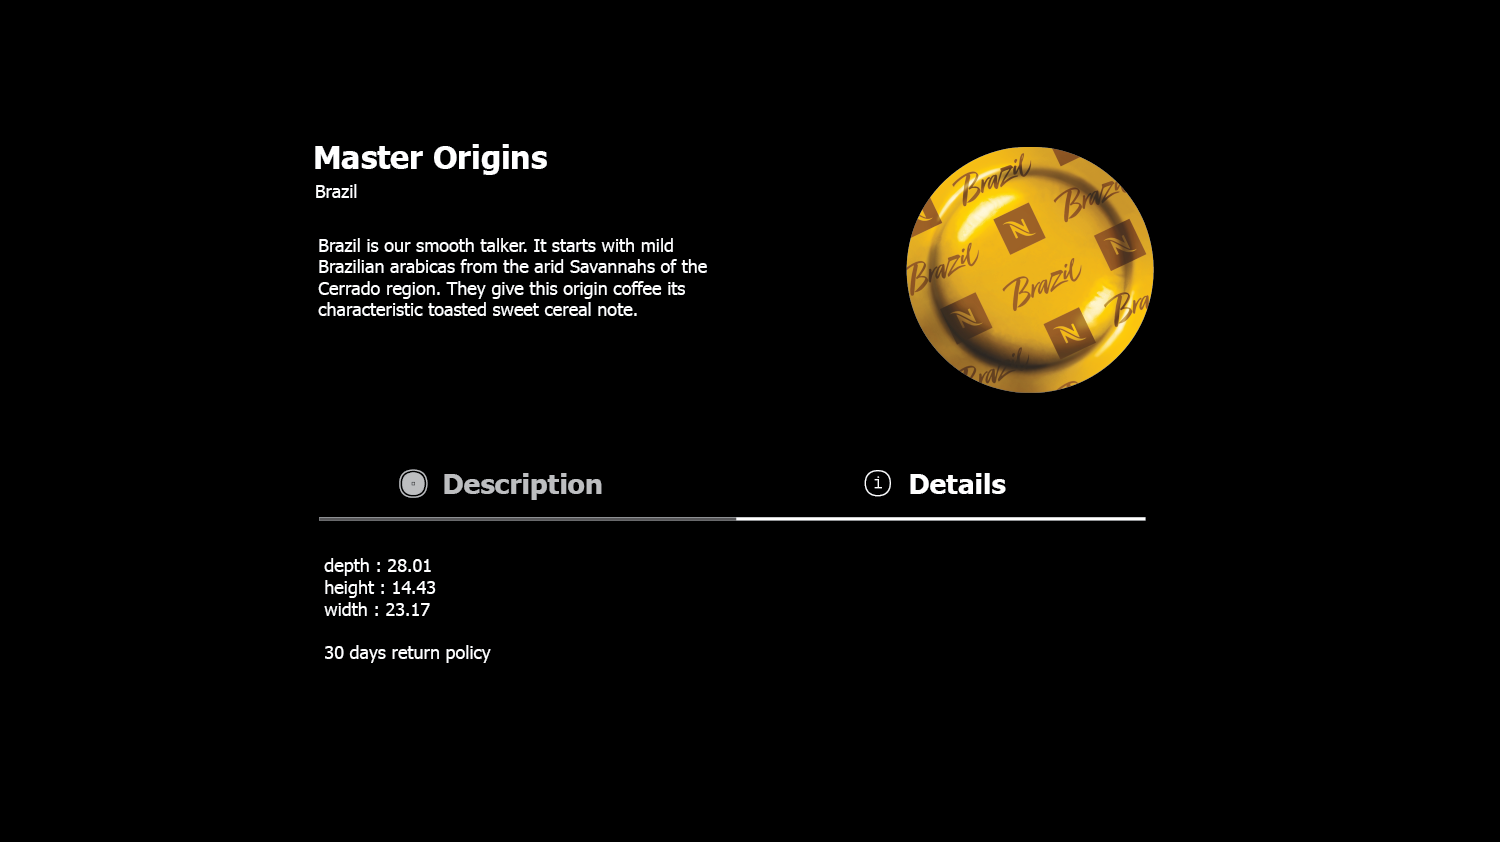
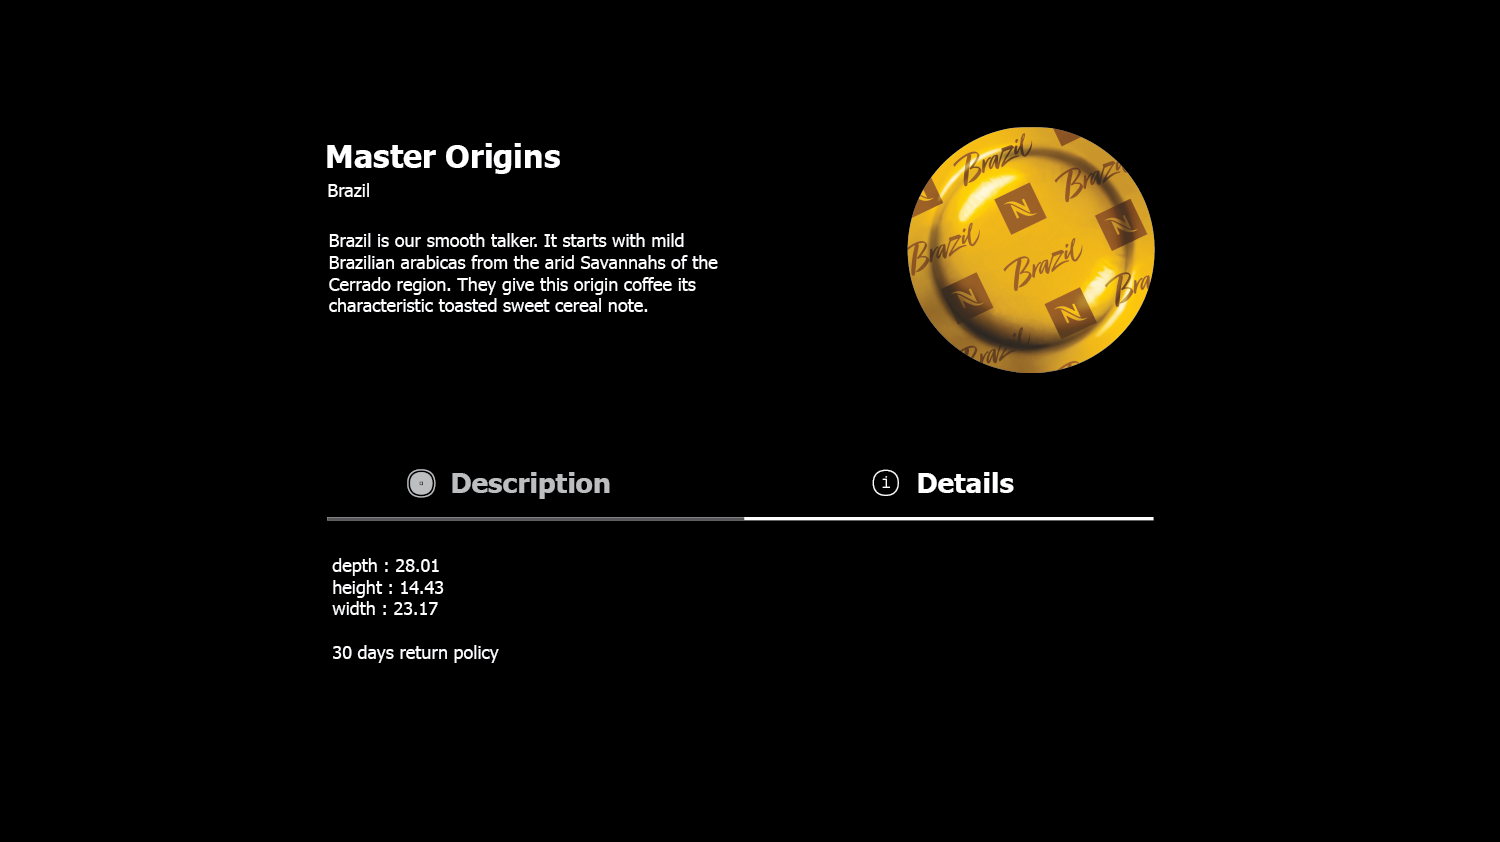
sixth commit

diff --git a/src/template.html b/src/template.html
@@ -24,13 +24,24 @@
             <p>Brazil is our smooth talker. It starts with mild Brazilian arabicas from the arid Savannahs of the Cerrado region. They give this origin coffee its characteristic toasted sweet cereal note.</p>
         </div>
         <div>
-            <a href="#" class="capsule" id="fetch-json">
-                <img src="https://www.nespresso.com/shared_res/agility/b2b/b2b/pureOrigins/img/capsules/brazil_S.png"/>
-            </a>
+            <img src="https://www.nespresso.com/shared_res/agility/b2b/b2b/pureOrigins/img/capsules/brazil_L.png" />
         </div>
     </div>
 
     <!-- Your Tab Interface HTML markup goes here -->
+
+    <button class="tab">
+        <svg xmlns="http://www.w3.org/2000/svg" width="32" height="32" viewBox="0 0 32 32" fill="currentColor"><path d="M16 2C6.97 2 2 6.97 2 16c0 9.03 4.97 14 14 14 9.03 0 14-4.97 14-14 0-9.03-4.97-14-14-14Zm0 27c-5.93 0-13-2.26-13-13S10.07 3 16 3s13 2.26 13 13-7.07 13-13 13Z"/>
+            <path d="M16 5C8.9 5 5 8.9 5 16s3.9 11 11 11 11-3.9 11-11S23.1 5 16 5Zm0 21c-4.56 0-10-1.74-10-10C6 7.73 11.44 6 16 6s10 1.73 10 10c0 8.26-5.44 10-10 10Z"/><path d="M13 19h6v-6h-6v6Zm1-5h4v4h-4v-4Z"/>
+        </svg>
+    </button>
+
+    <button class="tab">
+        <svg xmlns="http://www.w3.org/2000/svg" width="32" height="32" viewBox="0 0 32 32" fill="currentColor">
+            <path d="M16 3C7.86 3 3 7.86 3 16s4.86 13 13 13 13-4.86 13-13S24.14 3 16 3Zm0 25C8.37 28 4 23.63 4 16S8.37 4 16 4s12 4.37 12 12-4.37 12-12 12Z"/>
+            <path d="M17 12h-4v1h3v7h-3v1h7v-1h-3v-8ZM16.5 10.75a.75.75 0 1 0 0-1.5.75.75 0 0 0 0 1.5Z"/>
+        </svg>
+    </button>
 
 </div>
 

diff --git a/README.md b/README.md
@@ -2,7 +2,7 @@
 
 ## The exercise
 
-Inside `src/template.html` you will find some simple markup, you have to add the neccessary HTML markup and style it according to what you can see in `example-desktop-tab-1.png`, `example-desktop-tab-2.png` and `example-mobile-tab-1.png` , `example-mobile-tab-2.png` files inside the root folder of the repository
+Inside `src/template.html` you will find some simple markup, you have to add the neccessary HTML markup and style it according to what you can see in `example-desktop-tab-1.png`, `example-desktop-tab-2.png` and `example-mobile-tab-1.png` , `example-mobile-tab-2.png` files inside the root folder of the repository.
 
 ### Expected Mobile view
 Description Tab Selected | Details Tab Selected  
@@ -19,21 +19,22 @@ Description Tab Selected | Details Tab Selected
 ### Both mobile and desktop
 - When you click any of the tabs, you have to fetch data from `https://dummyjson.com/products/{id}` (where `id` should be random number "from 1 to 50") and display the "description" in the first selected tab (description tab). When the second tab (details) is clicked you should show the "dimensions" and the "returnPolicy" fields inside the tab content.
 - You should limit the clicking of the tabs to only fetch data at most once per second (so if you click a lot of times on any of the tabs in quick succession, it should only fetch data once per second).
-- When the page loads, or you click on a tab, its content should be visible (if no tab has been clicked then the default "description" should be loaded on the tab content area).
+- When the page loads, or you click on a tab, its related content should be visible (if no tab has been clicked then the default "description" field should be rendered on the tab content area).
 - The tab button should stay highlighted when clicked/active or hovered/focused (as you can see in the `example-desktop-tab-1.png` and `example-desktop-tab-2.png`).
-- UI should have zero WCAG 2.1 errors (when audited with any of common tool such AXE or WAVE chrome extensions)
-- It should be accessible when using Keyboard navigation (at least using tab key + direction arrows on the proposed interface tabs)
-- When using keyboard navigation after selecting any tab the focus should change to the respective tab-content.
-- If possible (bonus) animation should be added to the "active" and "hover" states of the tabs and a fade in effect every time the tab content is updated.
+- Final Template html should have zero WCAG 2.1 errors (when audited with any of common tool such AXE or WAVE chrome extensions)
+- It should be accessible when using Keyboard navigation (at least using tab key and if posssible direction arrows on the tabs).
+- When using keyboard navigation after selecting any tab the focus should change to their respective tab content.
+- (bonus) Animations should be added to the "active" and "hover" states of the tabs and a fade in effect to the tab content every time its updated.
 
-### Mobile / Tablet
+### Mobile
 - Follow the desktop requirements but the click behaviour should be replaced by tap.
 
 ### Feel free to do it however you want, just try to follow these rules:
 
-- You are able to modify the HTML, CSS and JS files.
-- The result of the Rendered Markup should be Accessible.
-- CSS syntax should follow a "Mobile First" approach
+- You are able to modify the HTML, SCSS and JS files.
+- The result of the Rendered Markup should be Keyboard Accessible.
+- CSS syntax should follow a "Mobile First" approach.
+- The template should not be pixel perfect but as close as possible to the attached Expected Desktop and Mobile views.
 
 ## Installation
 
